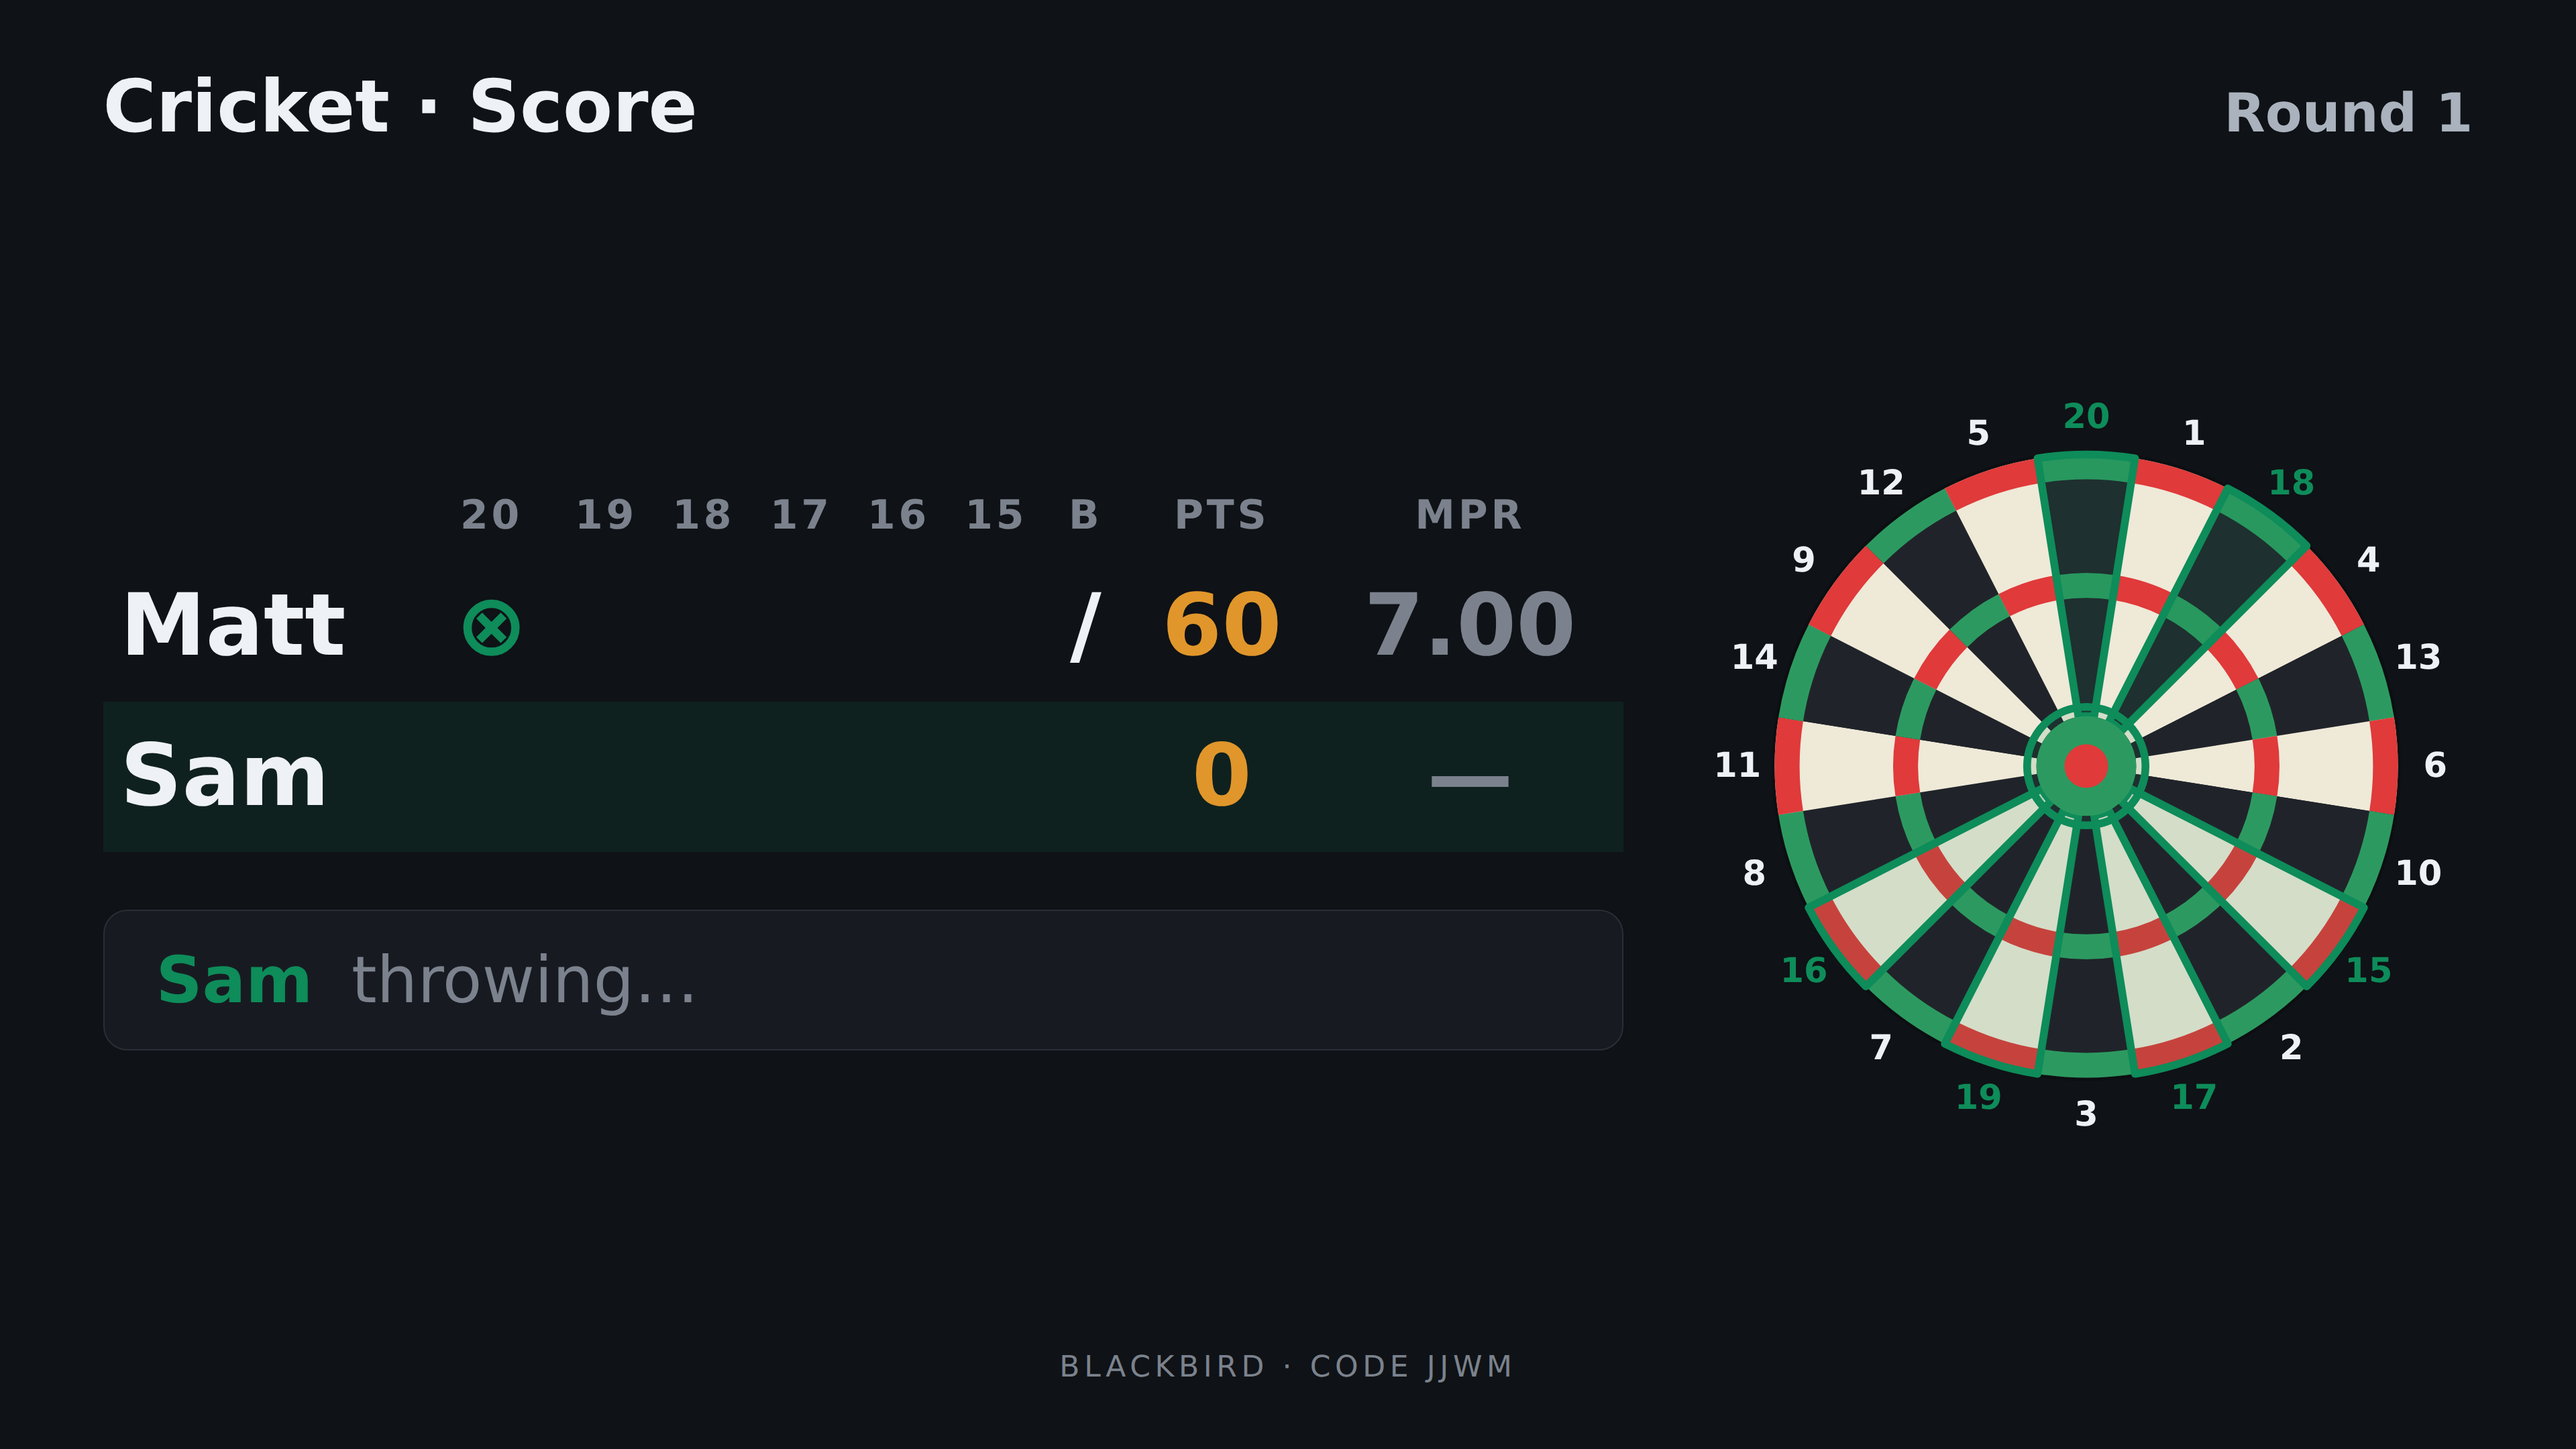
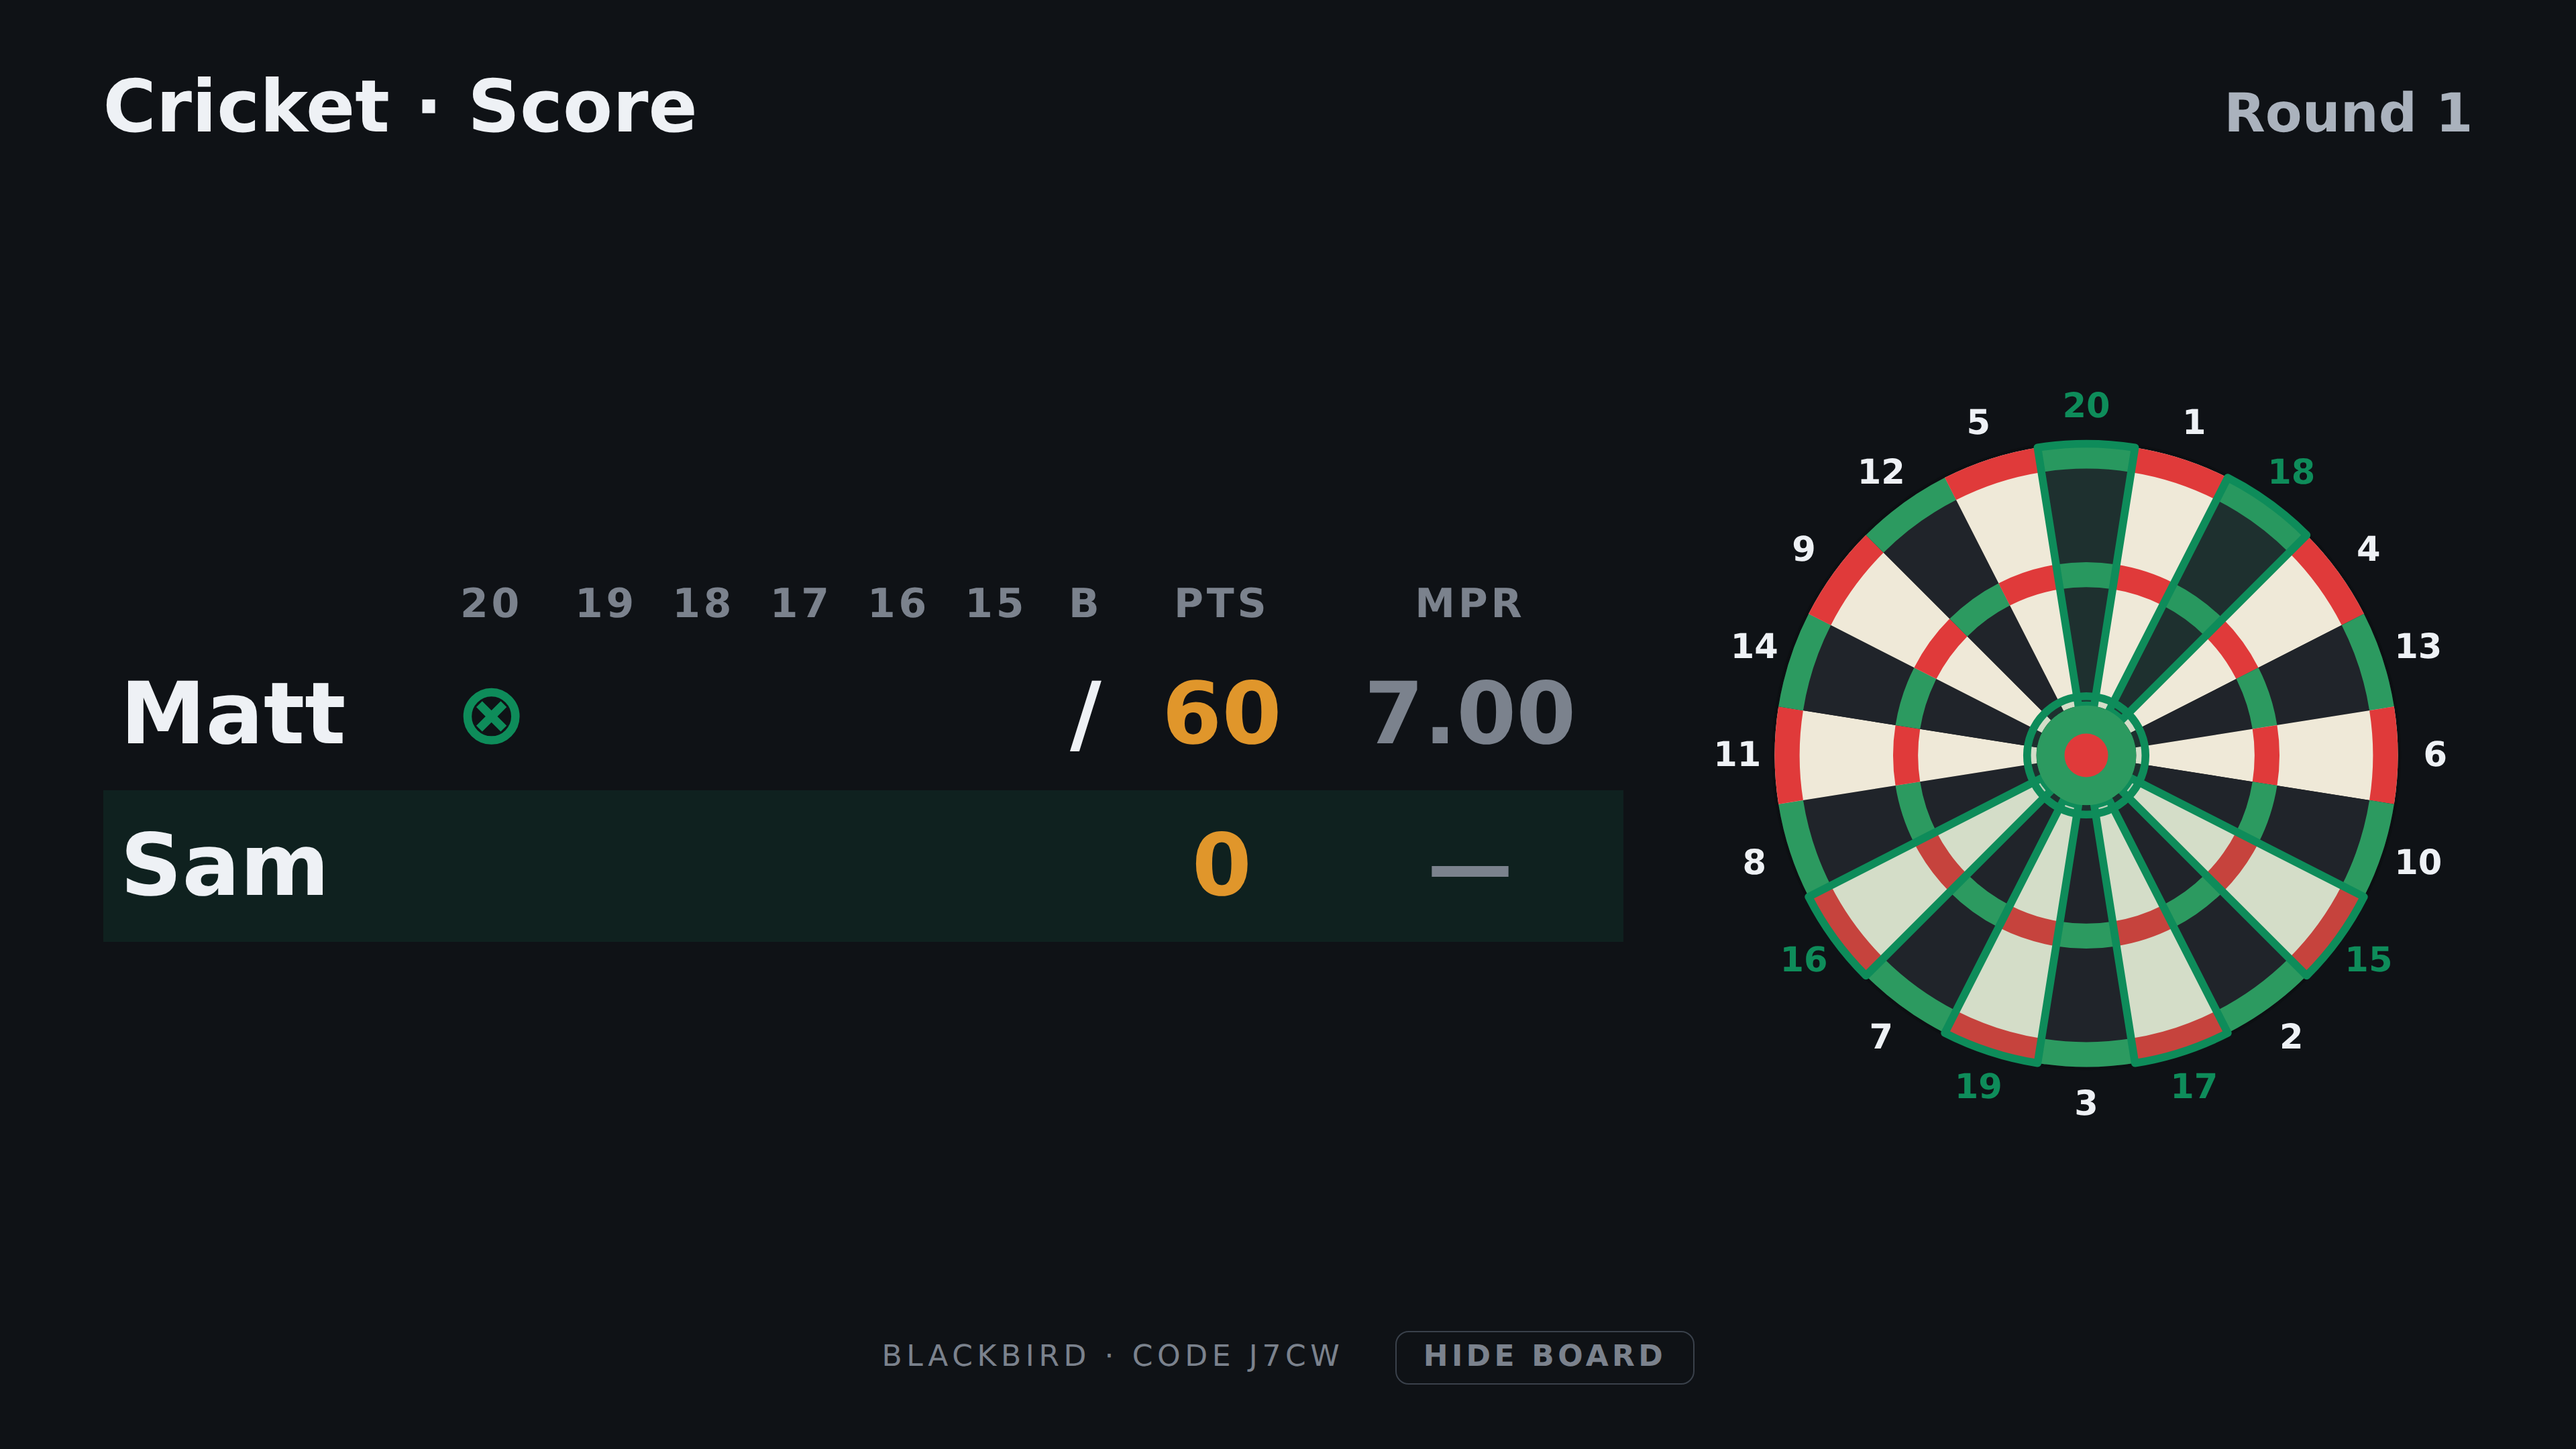
TV mode polish: Stop returns TVs to code entry, cleaner live layout, score-only style
- Stop on the phone now sends a distinct 'stopped' event; TVs close the
  channel and return to the code-entry screen (game quit still shows the
  'waiting for next game' state, since the cast is still active).
- Removed the 'X throwing...' strip from all TV views — whose turn it is
  reads from the highlighted row/card, and darts appear on the board.
- New display toggle on the TV footer: hide board switches to a
  score-only layout with extra-large numbers (full-width table, bigger
  X01 scores); preference is remembered per TV via localStorage.
- Verified end-to-end: style toggle hides the board, Stop drops the TV
  back to the code input, plus all existing cast flows.

Claude-Session: https://claude.ai/code/session_01QARoeoGxiKuoxC6n1iZQd3

diff --git a/components/tv/TVScoreboard.js b/components/tv/TVScoreboard.js
@@ -1,8 +1,7 @@
 import { X01_TARGETS, BASEBALL_INNINGS } from "@/lib/constants";
-import { dartValue, dartLabel, markSymbol } from "@/lib/darts";
+import { dartValue, markSymbol } from "@/lib/darts";
 import DartBoard from "@/components/DartBoard";
 
-const ringLabel = (d) => `${d.ring === 1 ? "S" : d.ring === 2 ? "D" : "T"}${d.target}`;
 const numOf = (t) => (t === "B" ? 25 : Number(t));
 
 /**
@@ -71,11 +70,6 @@ function TVCricket({ game, snapshot }) {
               ))}
             </tbody>
           </table>
-          <TVTurnStrip
-            cur={cur}
-            darts={darts.map(ringLabel)}
-            hint={darts.length ? "" : "throwing…"}
-          />
         </div>
         <div className="tv-boardwrap">
           <DartBoard highlight={openTargets} hits={boardHits} />
@@ -119,11 +113,6 @@ function TVX01({ game, snapshot }) {
               );
             })}
           </div>
-          <TVTurnStrip
-            cur={cur}
-            darts={turnDarts.map(dartLabel)}
-            hint={turnDarts.length ? `${turnSum} this turn` : "throwing…"}
-          />
         </div>
         <div className="tv-boardwrap">
           <DartBoard hits={turnDarts} />
@@ -178,11 +167,6 @@ function TVBaseball({ game, snapshot }) {
               ))}
             </tbody>
           </table>
-          <TVTurnStrip
-            cur={cur}
-            darts={turnDarts.map(dartLabel)}
-            hint={turnDarts.length ? "" : "throwing…"}
-          />
         </div>
         <div className="tv-boardwrap">
           <DartBoard highlight={[target]} hits={turnDarts} />
@@ -201,18 +185,3 @@ function TVHeader({ left, right, rightColor }) {
   );
 }
 
-function TVTurnStrip({ cur, darts, hint }) {
-  return (
-    <div className="tv-turn">
-      <span className="tv-turn-name">{cur}</span>
-      <span className="tv-turn-darts">
-        {darts.map((d, i) => (
-          <span key={i} className="tv-dart">
-            {d}
-          </span>
-        ))}
-        {hint && <span className="tv-muted">{hint}</span>}
-      </span>
-    </div>
-  );
-}

diff --git a/app/tv/page.js b/app/tv/page.js
@@ -36,6 +36,24 @@ function TV() {
   const channel = useRef(null);
   const helloTimer = useRef(null);
 
+  // display style: "board" (scoreboard + dartboard) or "score" (score
+  // only, extra large). Remembered per TV.
+  const [displayMode, setDisplayMode] = useState("board");
+  useEffect(() => {
+    try {
+      const v = window.localStorage.getItem("bb-tv-display");
+      if (v === "score" || v === "board") setDisplayMode(v);
+    } catch {}
+  }, []);
+  const toggleDisplay = () =>
+    setDisplayMode((m) => {
+      const next = m === "board" ? "score" : "board";
+      try {
+        window.localStorage.setItem("bb-tv-display", next);
+      } catch {}
+      return next;
+    });
+
   // TVs always render the dark theme
   useEffect(() => {
     document.documentElement.dataset.theme = "dark";
@@ -69,6 +87,13 @@ function TV() {
         } else if (event === "ended") {
           setStatus("waiting");
           setSnapshot(null);
+        } else if (event === "stopped") {
+          // the phone stopped casting — back to the code-entry screen
+          if (channel.current) channel.current.close();
+          channel.current = null;
+          setGame(null);
+          setSnapshot(null);
+          setStatus("idle");
         }
       },
       () => {
@@ -102,9 +127,14 @@ function TV() {
 
   if (status === "live" && game && snapshot) {
     return (
-      <main className="tv">
+      <main className={`tv ${displayMode === "score" ? "tv-scoreonly" : ""}`}>
         <TVScoreboard game={game} snapshot={snapshot} />
-        <div className="tv-footer">Blackbird · code {code}</div>
+        <div className="tv-footer">
+          <span>Blackbird · code {code}</span>
+          <button className="tv-style-btn" onClick={toggleDisplay}>
+            {displayMode === "board" ? "hide board" : "show board"}
+          </button>
+        </div>
       </main>
     );
   }

diff --git a/app/globals.css b/app/globals.css
@@ -815,36 +815,11 @@ label.check input {
   color: var(--muted);
   font-size: clamp(13px, 1.6vw, 28px);
 }
-.tv-turn {
-  display: flex;
-  align-items: center;
-  gap: 1.5vw;
-  background: var(--surface);
-  border: 1px solid var(--line);
-  border-radius: 18px;
-  padding: 1vw 2vw;
-  font-size: clamp(18px, 2.6vw, 48px);
-  min-height: 2.2em;
-}
-.tv-turn-name {
-  font-weight: 800;
-  color: var(--accent);
-}
-.tv-turn-darts {
-  display: flex;
-  gap: 1vw;
-  align-items: center;
-  flex-wrap: wrap;
-}
-.tv-dart {
-  background: var(--surface-2);
-  border: 1px solid var(--line-strong);
-  border-radius: 12px;
-  padding: 0.08em 0.5em;
-  font-weight: 700;
-  font-variant-numeric: tabular-nums;
-}
 .tv-footer {
+  display: flex;
+  align-items: center;
+  justify-content: center;
+  gap: 2vw;
   text-align: center;
   color: var(--muted);
   font-size: clamp(12px, 1.4vw, 22px);
@@ -908,4 +883,44 @@ label.check input {
   .tv-boardwrap svg {
     max-width: 60vw;
   }
+}
+
+/* tv style toggle + score-only display */
+.tv-style-btn {
+  font-family: inherit;
+  background: none;
+  border: 1px solid var(--line-strong);
+  color: var(--muted);
+  border-radius: 10px;
+  padding: 0.3em 0.9em;
+  font-size: clamp(12px, 1.4vw, 22px);
+  letter-spacing: 0.12em;
+  text-transform: uppercase;
+  font-weight: 700;
+  cursor: pointer;
+}
+.tv-style-btn:hover {
+  color: var(--ink);
+  border-color: var(--ink-soft);
+}
+.tv-scoreonly .tv-split {
+  grid-template-columns: 1fr;
+}
+.tv-scoreonly .tv-boardwrap {
+  display: none;
+}
+.tv-scoreonly .tv-table {
+  font-size: clamp(24px, 5vw, 110px);
+}
+.tv-scoreonly .tv-table th {
+  font-size: clamp(14px, 2vw, 40px);
+}
+.tv-scoreonly .tv-x01-score {
+  font-size: clamp(80px, 17vw, 340px);
+}
+.tv-scoreonly .tv-x01-name {
+  font-size: clamp(24px, 3.4vw, 64px);
+}
+.tv-scoreonly .tv-x01-sub {
+  font-size: clamp(16px, 2vw, 40px);
 }

diff --git a/lib/cast.js b/lib/cast.js
@@ -6,7 +6,9 @@ import { supabase } from "./supabase";
  * JSON events:
  *   "state"    { game, snapshot }   phone → TVs, on every scoring change
  *   "finished" { game, winner }     phone → TVs
- *   "ended"    {}                   phone → TVs, on quit
+ *   "ended"    {}                   phone → TVs, game quit (cast still on)
+ *   "stopped"  {}                   phone → TVs, casting stopped — TVs
+ *                                   drop back to the code-entry screen
  *   "hello"    {}                   TV → phone, on join (phone answers
  *                                   with the current state so late
  *                                   joiners sync immediately)
@@ -30,7 +32,7 @@ export function normalizeCastCode(raw) {
   return (raw || "").toUpperCase().replace(/[^A-Z0-9]/g, "").slice(0, 4);
 }
 
-const CAST_EVENTS = ["state", "finished", "ended", "hello"];
+const CAST_EVENTS = ["state", "finished", "ended", "stopped", "hello"];
 
 function useLocalTransport() {
   if (typeof window === "undefined") return false;

diff --git a/app/page.js b/app/page.js
@@ -71,7 +71,8 @@ export default function Page() {
 
   const toggleCast = useCallback(() => {
     if (castChannel.current) {
-      castChannel.current.send("ended", {});
+      // "stopped" (not "ended") sends TVs back to their code-entry screen
+      castChannel.current.send("stopped", {});
       castChannel.current.close();
       castChannel.current = null;
       setCastCode(null);

diff --git a/README.md b/README.md
@@ -127,8 +127,11 @@ Key design points:
    for cricket, giant remaining scores for X01, the box score for
    baseball, whose throw it is, and the darts of the current turn — and
    the phone collapses to a simplified entry-only UI. Multiple TVs can
-   join the same code; the code stays active across games until you tap
-   Stop. Sync runs over Supabase Realtime broadcast (no login needed on
+   join the same code; the code stays active across games, and tapping
+   Stop on the phone sends every TV back to its code-entry screen. A
+   hide/show board toggle on the TV switches between the scoreboard-
+   plus-dartboard layout and a score-only view with extra-large numbers
+   (remembered per TV). Sync runs over Supabase Realtime broadcast (no login needed on
    the TV, nothing written to the database).
 5. **Score the game** on the live screen. Cricket shows the classic marks
    grid, points, a **live MPR column**, and the current **round number**;
